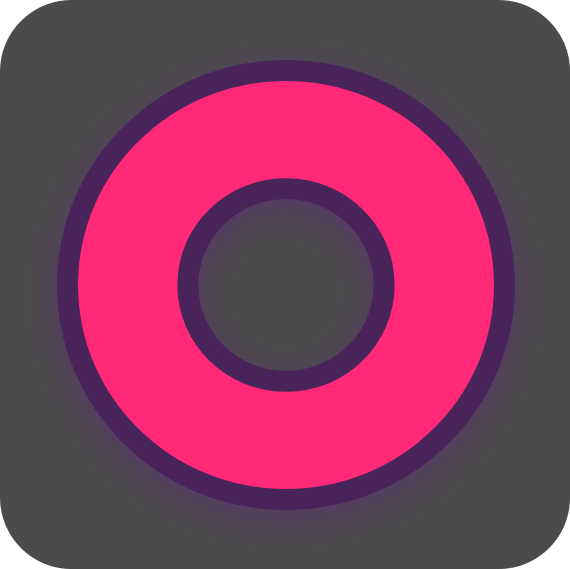
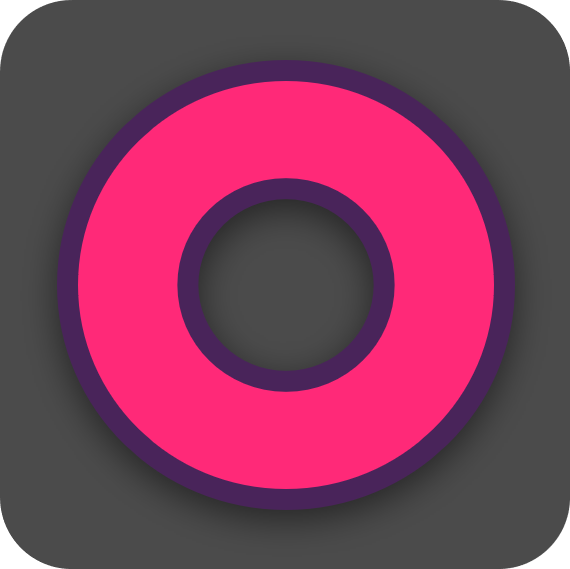
Opimized assets, and added new assets

Changed region(s): [[0.0895, 0.3884, 0.9246, 0.9262], [0.3281, 0.3286, 0.6561, 0.5975]]

diff --git a/src/components/Static.js b/src/components/Static.js
@@ -3,17 +3,21 @@ const BLANK_PIECE = require("../../assets/images/light/blank.png");
 
 const O_PIECE = require("../../assets/images/light/o.png");
 const O2_PIECE = require("../../assets/images/light/o2.png");
+const O3_PIECE = require("../../assets/images/light/o3.png");
 
 const X_PIECE = require("../../assets/images/light/x.png");
 const X2_PIECE = require("../../assets/images/light/x2.png");
+const X3_PIECE = require("../../assets/images/light/x3.png");
 
 const BLANK_PIECE_FADED = require("../../assets/images/light/blank_faded.png");
 
 const O_PIECE_FADED = require("../../assets/images/light/o_faded.png");
 const O2_PIECE_FADED = require("../../assets/images/light/o2_faded.png");
+const O3_PIECE_FADED = require("../../assets/images/light/o3_faded.png");
 
 const X_PIECE_FADED = require("../../assets/images/light/x_faded.png");
 const X2_PIECE_FADED = require("../../assets/images/light/x2_faded.png");
+const X3_PIECE_FADED = require("../../assets/images/light/x3_faded.png");
 
 
 // Dark Pieces for Light theme
@@ -21,40 +25,44 @@ const DARK_BLANK_PIECE = require("../../assets/images/dark/blank.png");
 
 const DARK_O_PIECE = require("../../assets/images/dark/o.png");
 const DARK_O2_PIECE = require("../../assets/images/dark/o2.png");
+const DARK_O3_PIECE = require("../../assets/images/dark/o3.png");
 
 const DARK_X_PIECE = require("../../assets/images/dark/x.png");
 const DARK_X2_PIECE = require("../../assets/images/dark/x2.png");
+const DARK_X3_PIECE = require("../../assets/images/dark/x3.png");
 
 const DARK_BLANK_PIECE_FADED = require("../../assets/images/dark/blank_faded.png");
 
 const DARK_O_PIECE_FADED = require("../../assets/images/dark/o_faded.png");
 const DARK_O2_PIECE_FADED = require("../../assets/images/dark/o2_faded.png");
+const DARK_O3_PIECE_FADED = require("../../assets/images/dark/o3_faded.png");
 
 const DARK_X_PIECE_FADED = require("../../assets/images/dark/x_faded.png");
 const DARK_X2_PIECE_FADED = require("../../assets/images/dark/x2_faded.png");
+const DARK_X3_PIECE_FADED = require("../../assets/images/dark/x3_faded.png");
 
 // Indexes :-
 // const BLANK_PIECE=0
-// const O_PIECE=1, O2_PIECE =2
-// const X_PIECE=3, X2_PIECE=4;
-// const BLANK_PIECE_FADED=5
-// const O_PIECE_FADED=6, O2_PIECE_FADED=7
-// const X_PIECE_FADED=8, X2_PIECE_FADED=9;
+// const O_PIECE=1, O2_PIECE =2, O3_PIECE =3;
+// const X_PIECE=4, X2_PIECE=5, X3_PIECE=6;
+// const BLANK_PIECE_FADED=7
+// const O_PIECE_FADED=8, O2_PIECE_FADED =9, O3_PIECE_FADED =10;
+// const X_PIECE_FADED=11, X2_PIEC_FADED=12, X3_PIECE_FADED=13;
 
 export const DARK_THEME_IMAGES = [
     BLANK_PIECE,
-    O_PIECE, O2_PIECE,
-    X_PIECE, X2_PIECE,
+    O_PIECE, O2_PIECE, O3_PIECE,
+    X_PIECE, X2_PIECE, X3_PIECE,
     BLANK_PIECE_FADED,
-    O_PIECE_FADED, O2_PIECE_FADED,
-    X_PIECE_FADED, X2_PIECE_FADED
+    O_PIECE_FADED, O2_PIECE_FADED, O3_PIECE_FADED,
+    X_PIECE_FADED, X2_PIECE_FADED, X3_PIECE_FADED
 ]
 
 export const LIGHT_THEME_IMAGES = [
     DARK_BLANK_PIECE,
-    DARK_O_PIECE, DARK_O2_PIECE,
-    DARK_X_PIECE, DARK_X2_PIECE,
+    DARK_O_PIECE, DARK_O2_PIECE, DARK_O3_PIECE,
+    DARK_X_PIECE, DARK_X2_PIECE, DARK_X3_PIECE,
     DARK_BLANK_PIECE_FADED,
-    DARK_O_PIECE_FADED, DARK_O2_PIECE_FADED,
-    DARK_X_PIECE_FADED, DARK_X2_PIECE_FADED
+    DARK_O_PIECE_FADED, DARK_O2_PIECE_FADED, DARK_O3_PIECE_FADED,
+    DARK_X_PIECE_FADED, DARK_X2_PIECE_FADED, DARK_X3_PIECE_FADED
 ]

diff --git a/src/reducers/GameReducer.js b/src/reducers/GameReducer.js
@@ -5,16 +5,16 @@ import { PLAYER_PLAYED, CLEAR_GRID } from "../actions/types";
 
 
 const BLANK_PIECE=0
-const O_PIECE=1, O2_PIECE =2
-const X_PIECE=3, X2_PIECE=4;
-const BLANK_PIECE_FADED=5
-const O_PIECE_FADED=6, O2_PIECE_FADED=7
-const X_PIECE_FADED=8, X2_PIECE_FADED=9;
+const O_PIECE=1, O2_PIECE =2, O3_PIECE =3;
+const X_PIECE=4, X2_PIECE=5, X3_PIECE=6;
+const BLANK_PIECE_FADED=7
+const O_PIECE_FADED=8, O2_PIECE_FADED =9, O3_PIECE_FADED =10;
+const X_PIECE_FADED=11, X2_PIEC_FADED=12, X3_PIECE_FADED=13;
 
-const O_PIECE_LIST = [1, 2]
-const X_PIECE_LIST = [3, 4]
+const O_PIECE_LIST = [O_PIECE, O2_PIECE, O3_PIECE]
+const X_PIECE_LIST = [X_PIECE, X2_PIECE, X3_PIECE]
 
-const FADED_ADDER = 5;
+const FADED_ADDER = 7;
 
 const INITIAL_STATE = {
   player: _.sample(['X', 'O']),
@@ -50,9 +50,9 @@ const update_gridState = (index, gridState, player) => {
   // Replace the BLANK_PIECE with the specific player's piece
   var new_piece, playable;
   if (player === "X") {
-    new_piece = _.sample([X_PIECE, X2_PIECE]);
+    new_piece = _.sample(O_PIECE_LIST);
   } else {
-    new_piece = _.sample([O_PIECE, O2_PIECE]);
+    new_piece = _.sample(X_PIECE_LIST);
   }
 
   if (gridState[index] === BLANK_PIECE){
